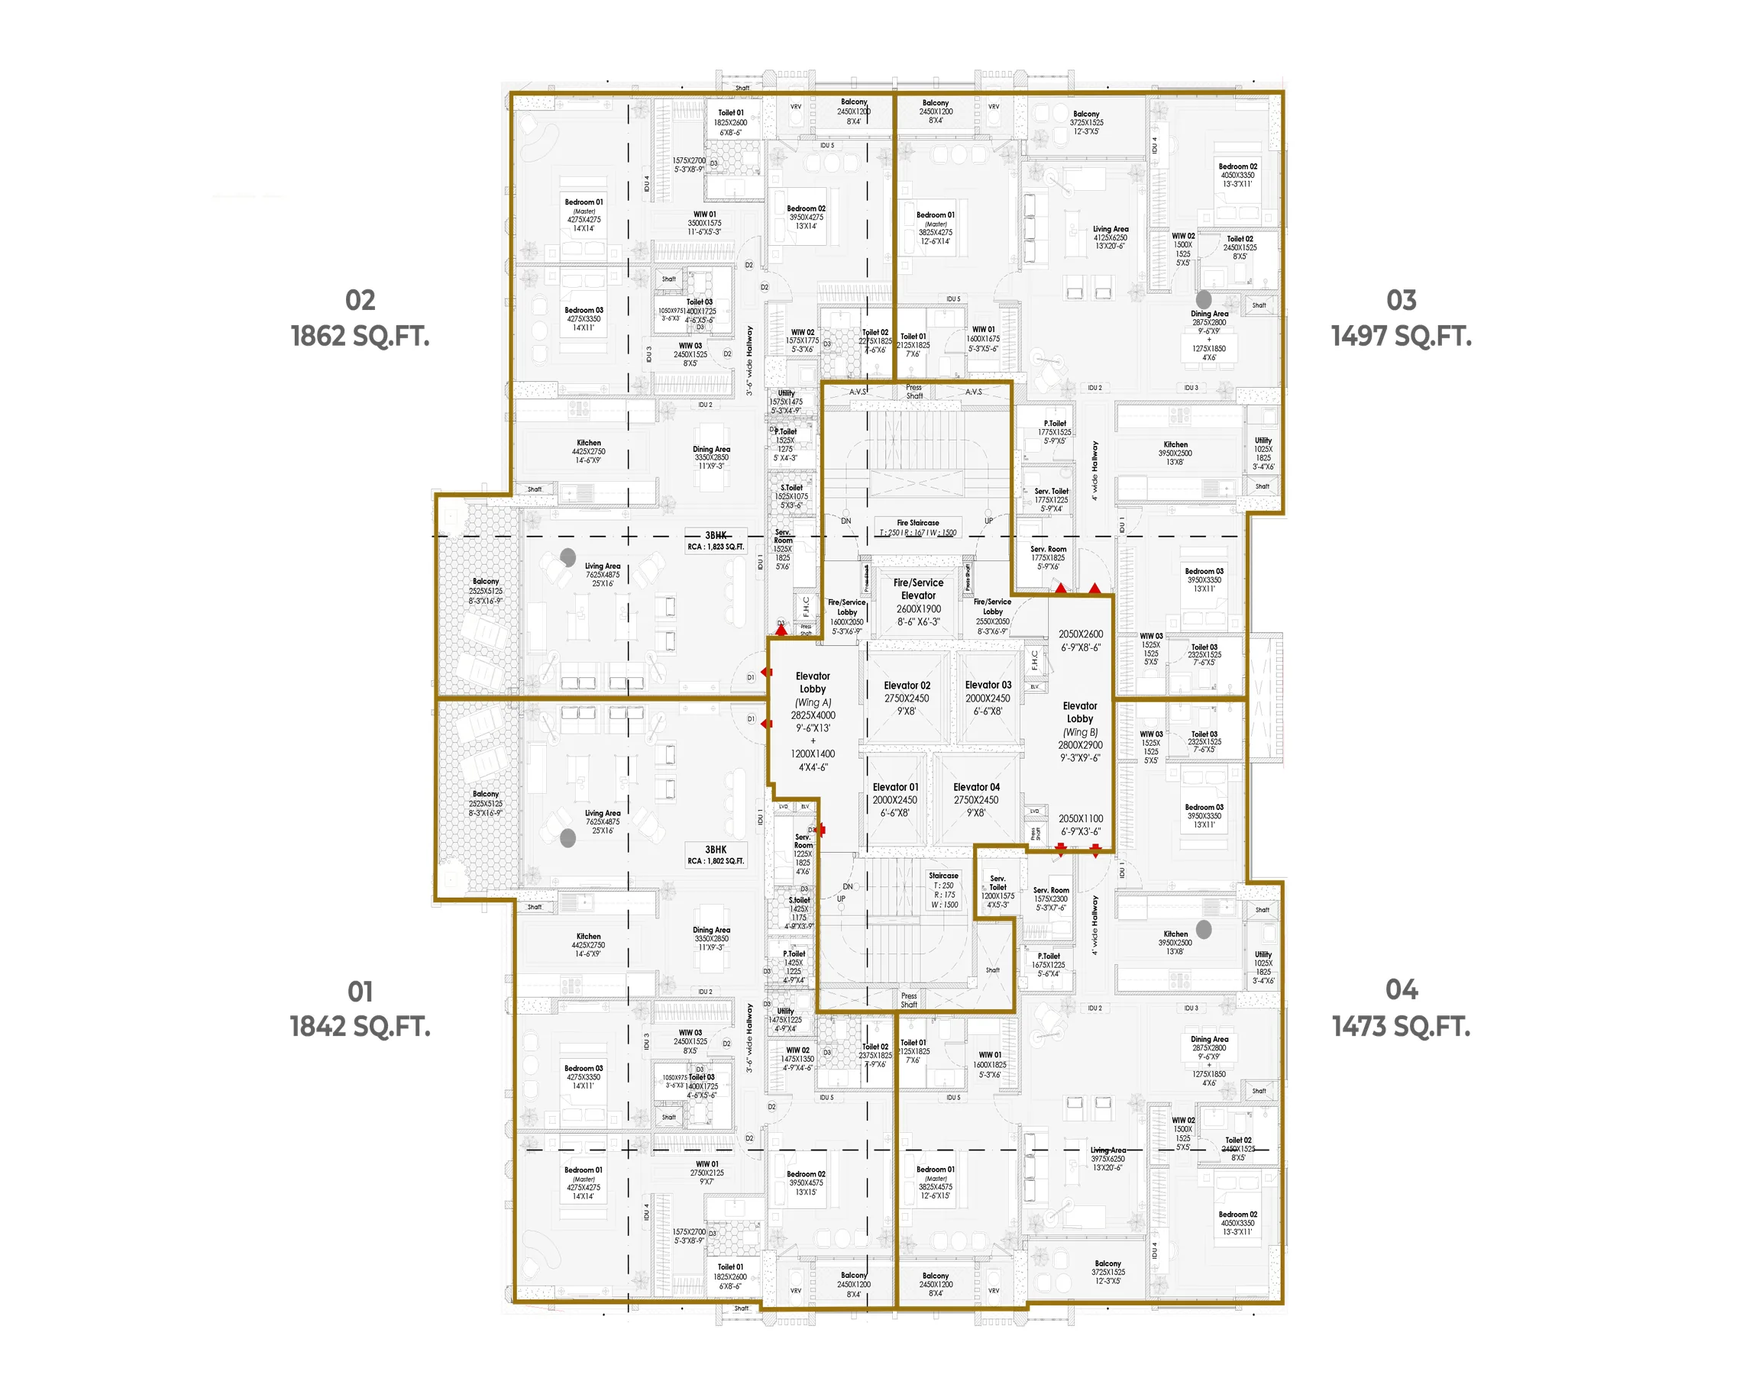
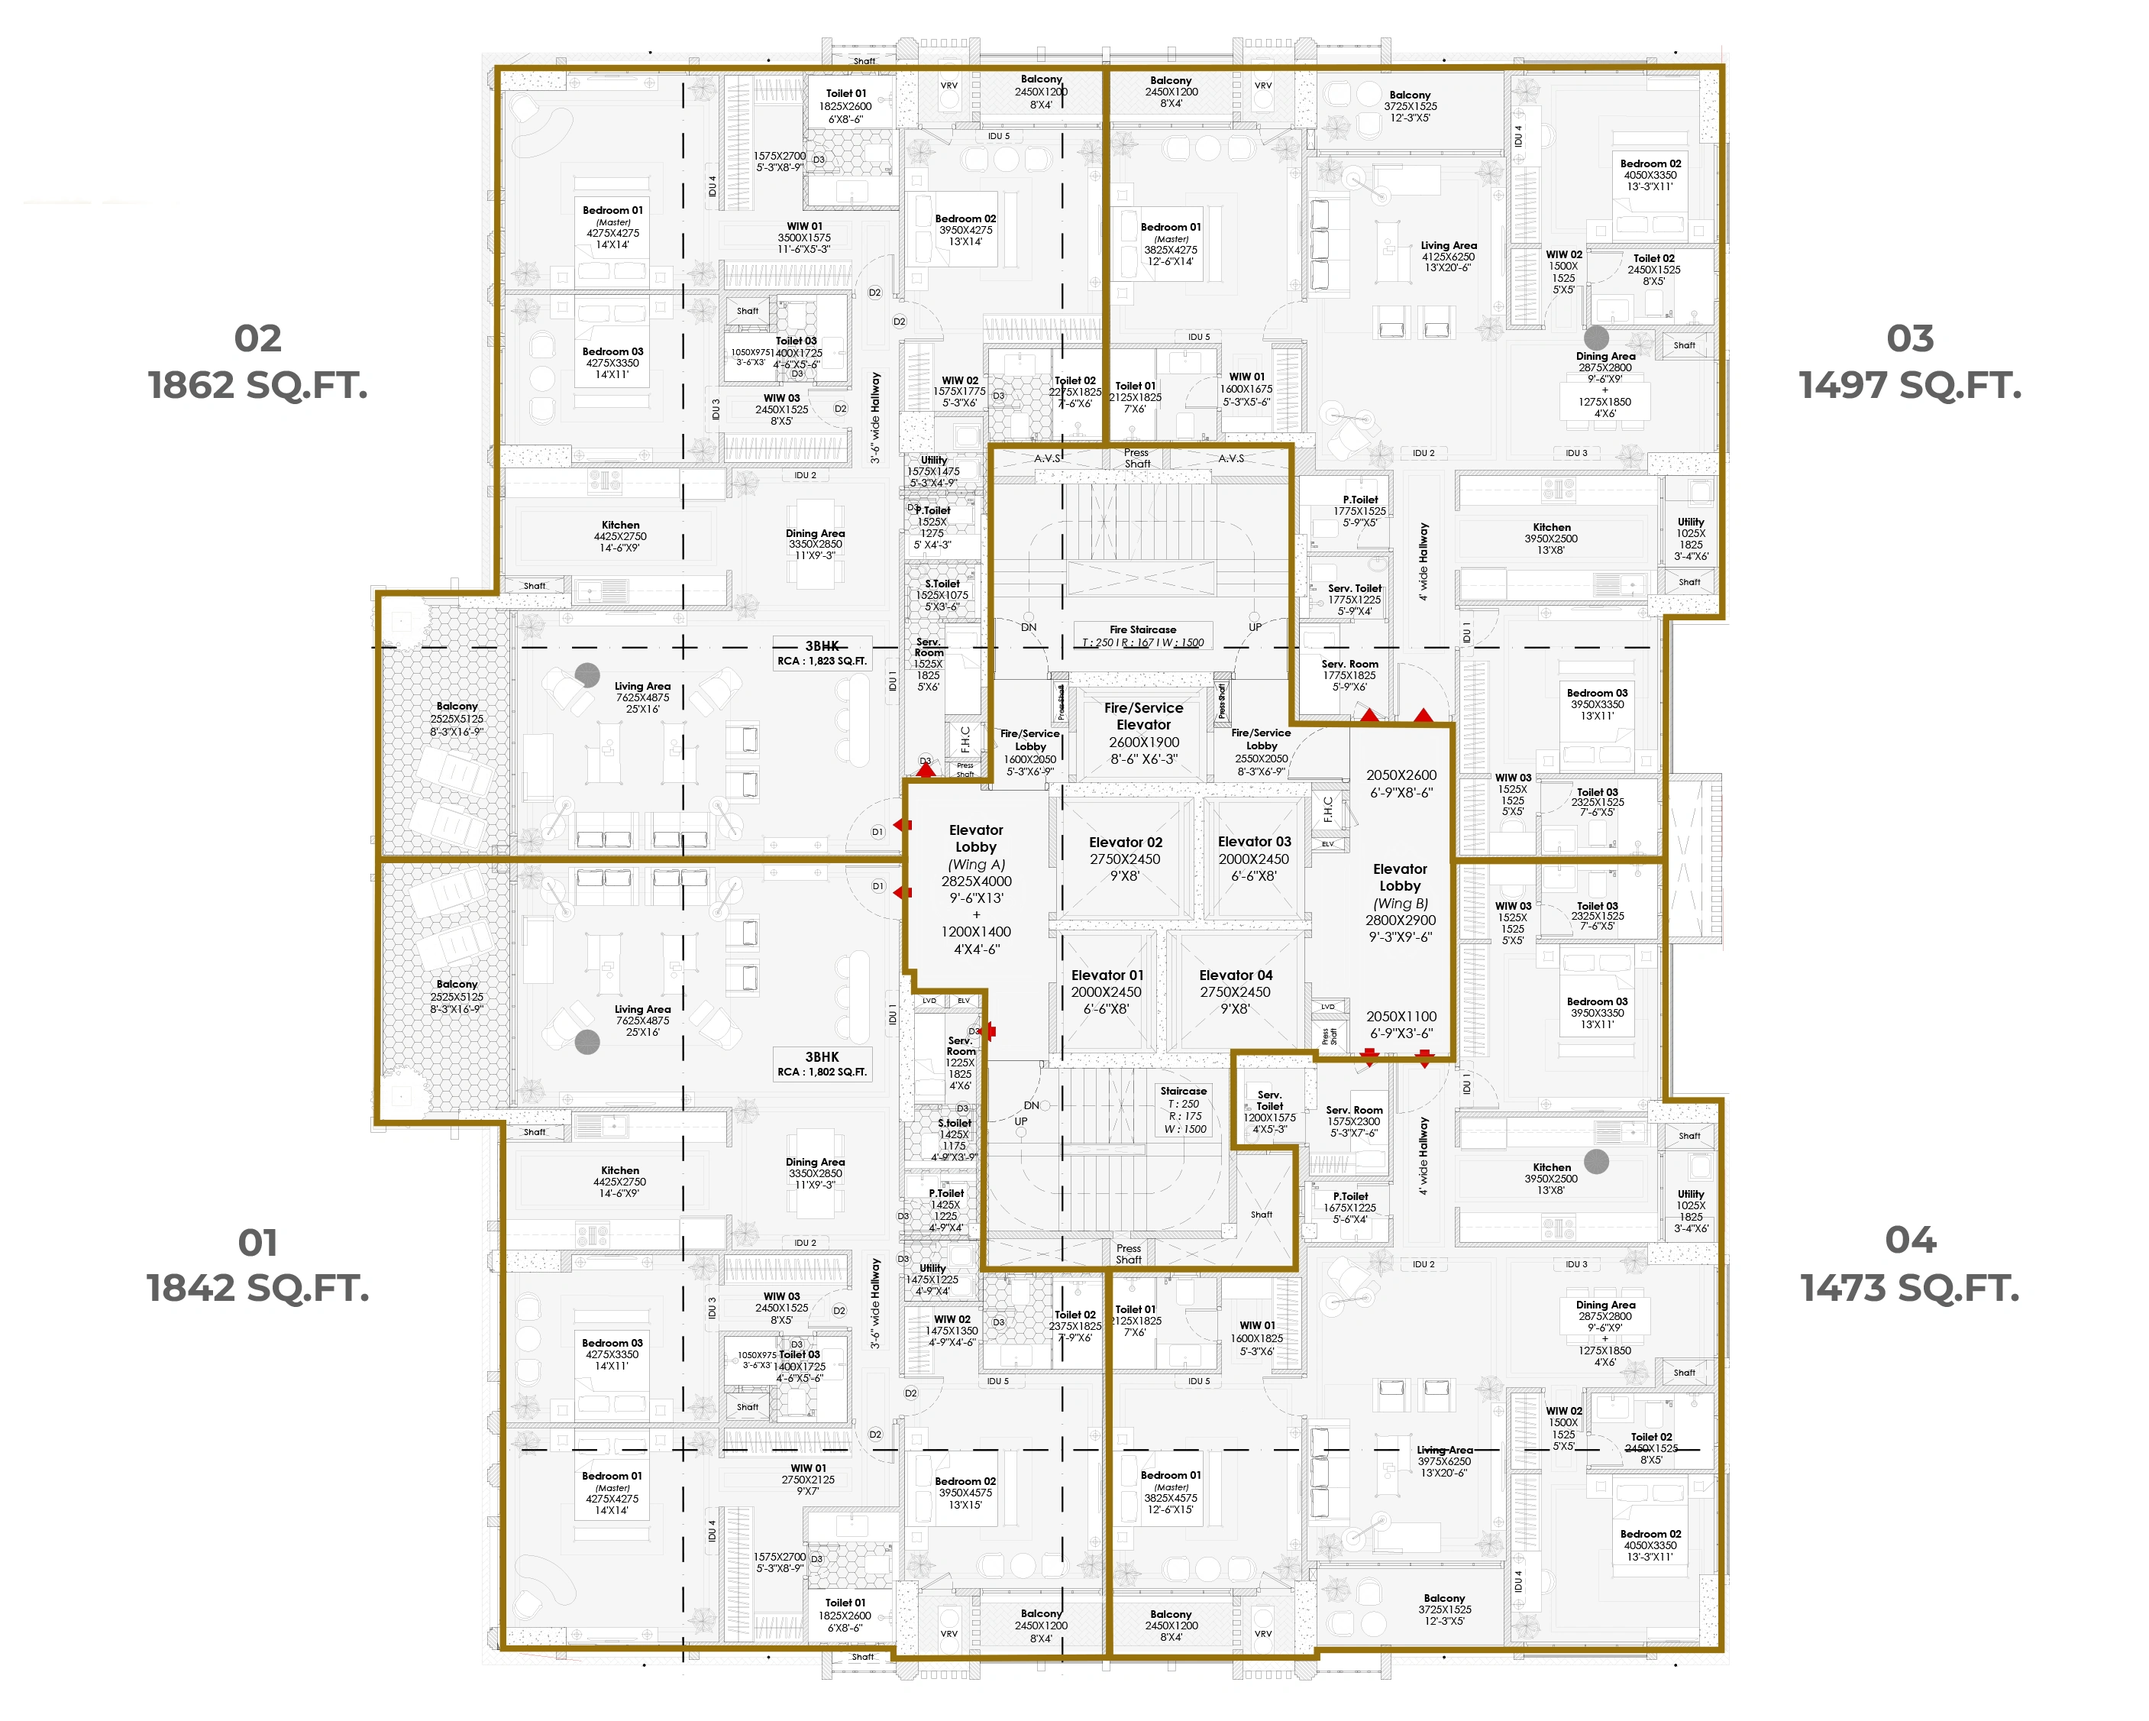
commit

Changed region(s): [[0.0621, 0.0311, 0.9318, 0.9656], [0.3416, 0.5607, 0.3727, 0.5918]]

diff --git a/src/components/ZoomPan.tsx b/src/components/ZoomPan.tsx
@@ -1,5 +1,6 @@
 'use client';
 import { useCallback, useEffect, useRef, useState } from 'react';
+import { canFullscreen, isIOS } from '@/lib/device';
 
 const MIN = 1;
 const MAX = 5;
@@ -8,6 +9,9 @@ type T = { s: number; x: number; y: number };
 // Pinch / wheel / double-tap / drag zoom for one child. Children get `--z` (current scale) so overlays can counter-scale.
 export default function ZoomPan({ children, label = 'Zoom' }: { children: React.ReactNode; label?: string }) {
   const box = useRef<HTMLDivElement>(null);
+  const root = useRef<HTMLDivElement>(null);
+  const [fs, setFs] = useState(false);
+  const [canFs, setCanFs] = useState(false);
   const [t, setT] = useState<T>({ s: 1, x: 0, y: 0 });
   const pts = useRef(new Map<number, { x: number; y: number }>());
   const last = useRef<{ d: number; cx: number; cy: number } | null>(null);
@@ -35,6 +39,13 @@ export default function ZoomPan({ children, label = 'Zoom' }: { children: React.
     const r = box.current!.getBoundingClientRect();
     return { x: e.clientX - r.left - r.width / 2, y: e.clientY - r.top - r.height / 2 };
   };
+
+  useEffect(() => {
+    setCanFs(canFullscreen(document, isIOS(navigator.userAgent, navigator.maxTouchPoints)));
+    const sync = () => { setFs(document.fullscreenElement === root.current); setT({ s: 1, x: 0, y: 0 }); }; // box size changes, so start fresh
+    document.addEventListener('fullscreenchange', sync);
+    return () => document.removeEventListener('fullscreenchange', sync);
+  }, []);
 
   useEffect(() => {
     const el = box.current;
@@ -81,11 +92,16 @@ export default function ZoomPan({ children, label = 'Zoom' }: { children: React.
   const up = (e: React.PointerEvent) => { pts.current.delete(e.pointerId); last.current = null; };
 
   return (
-    <div className="zoom" role="group" aria-label={label}>
+    <div ref={root} className="zoom" role="group" aria-label={label}>
       <div ref={box} className={t.s > 1 ? 'zoom-box zoomed' : 'zoom-box'} onPointerDown={down} onPointerMove={move} onPointerUp={up} onPointerCancel={up}
         onDoubleClick={(e) => { if (t.s > 1) setT({ s: 1, x: 0, y: 0 }); else { const p = rel(e); zoomAt(2.5, p.x, p.y); } }}>
         <div className="zoom-layer" style={{ transform: `translate(${t.x}px, ${t.y}px) scale(${t.s})`, ['--z' as string]: t.s }}>{children}</div>
       </div>
+      {fs && (
+        <button type="button" className="ctl zoom-close" aria-label="Exit fullscreen" onClick={() => void document.exitFullscreen()}>
+          <svg width="16" height="16" viewBox="0 0 24 24" fill="none" stroke="currentColor" strokeWidth="1.6" strokeLinecap="round"><path d="M6 6l12 12M18 6L6 18" /></svg>
+        </button>
+      )}
       <div className="zoom-ctl" role="group" aria-label="Zoom controls">
         <button type="button" className="ctl" aria-label="Zoom in" disabled={t.s >= MAX} onClick={() => zoomAt(1.6)}>
           <svg width="16" height="16" viewBox="0 0 24 24" fill="none" stroke="currentColor" strokeWidth="1.6" strokeLinecap="round"><path d="M12 5v14M5 12h14" /></svg>
@@ -93,9 +109,11 @@ export default function ZoomPan({ children, label = 'Zoom' }: { children: React.
         <button type="button" className="ctl" aria-label="Zoom out" disabled={t.s <= MIN} onClick={() => zoomAt(1 / 1.6)}>
           <svg width="16" height="16" viewBox="0 0 24 24" fill="none" stroke="currentColor" strokeWidth="1.6" strokeLinecap="round"><path d="M5 12h14" /></svg>
         </button>
-        <button type="button" className="ctl" aria-label="Reset zoom" disabled={t.s === 1} onClick={() => setT({ s: 1, x: 0, y: 0 })}>
-          <svg width="16" height="16" viewBox="0 0 24 24" fill="none" stroke="currentColor" strokeWidth="1.6" strokeLinecap="round" strokeLinejoin="round"><path d="M4 9V4h5M20 9V4h-5M4 15v5h5M20 15v5h-5" /></svg>
-        </button>
+        {canFs && !fs && (
+          <button type="button" className="ctl zoom-fs" aria-label="Enter fullscreen" onClick={() => void root.current?.requestFullscreen().catch(() => {})}>
+            <svg width="16" height="16" viewBox="0 0 24 24" fill="none" stroke="currentColor" strokeWidth="1.6" strokeLinecap="round" strokeLinejoin="round"><path d="M4 9V4h5M20 9V4h-5M4 15v5h5M20 15v5h-5" /></svg>
+          </button>
+        )}
       </div>
     </div>
   );

diff --git a/src/components/FloorPlanScene.tsx b/src/components/FloorPlanScene.tsx
@@ -24,8 +24,26 @@ export default function FloorPlanScene() {
 
   const pickTab = (id: string) => { setTabId(id); setPlanIdx(0); setUnit(null); };
 
+  const zoomEl = unit ? (
+    <ZoomPan key={`u-${unit.id}`} label={`${unit.label} plan`}>
+      <img className="fp-img" src={unit.src} alt={`${unit.label} floor plan`} draggable={false} />
+    </ZoomPan>
+  ) : (
+    <ZoomPan key={plan.id} label={`${tab.label} floor plan`}>
+      <img className="fp-img" src={plan.src} alt={`${tab.label} ${plan.label} floor plan`} draggable={false} />
+      {plan.hotspots.map((h) => (
+        <button key={h.id} type="button" className="hotspot" style={{ left: `${h.x}%`, top: `${h.y}%` }}
+          aria-label={h.label} onClick={() => setUnit(h)} onPointerDown={(e) => e.stopPropagation()}>
+          <span className="hotspot-dot" aria-hidden="true" />
+          <span className="hotspot-label">{h.label}</span>
+        </button>
+      ))}
+    </ZoomPan>
+  );
+
   return (
     <SceneFrame
+      hiddenView={<div className="fp-full"><div className="fp-card">{zoomEl}</div></div>}
       bgNode={
         <div className="fp-bg" aria-hidden="true">
           <img className="fp-blur" src={floorPlan.background} alt="" draggable={false} />
@@ -35,29 +53,7 @@ export default function FloorPlanScene() {
         <>
           <SideMenu active="/floor-plan" />
           <div className="fp-stage">
-            {unit ? (
-              <div className="fp-card" key={`u-${unit.id}`}>
-                <ZoomPan label={`${unit.label} plan`}>
-                  <img className="fp-img" src={unit.src} alt={`${unit.label} floor plan`} draggable={false} />
-                </ZoomPan>
-                <button type="button" className="ctl fp-close" aria-label="Close" onClick={() => setUnit(null)}>
-                  <svg width="16" height="16" viewBox="0 0 24 24" fill="none" stroke="currentColor" strokeWidth="1.6" strokeLinecap="round"><path d="M6 6l12 12M18 6L6 18" /></svg>
-                </button>
-              </div>
-            ) : (
-              <div className="fp-card" key={plan.id}>
-                <ZoomPan label={`${tab.label} floor plan`}>
-                  <img className="fp-img" src={plan.src} alt={`${tab.label} ${plan.label} floor plan`} draggable={false} />
-                  {plan.hotspots.map((h) => (
-                    <button key={h.id} type="button" className="hotspot" style={{ left: `${h.x}%`, top: `${h.y}%` }}
-                      aria-label={h.label} onClick={() => setUnit(h)} onPointerDown={(e) => e.stopPropagation()}>
-                      <span className="hotspot-dot" aria-hidden="true" />
-                      <span className="hotspot-label">{h.label}</span>
-                    </button>
-                  ))}
-                </ZoomPan>
-              </div>
-            )}
+            <div className="fp-card" key={unit ? `u-${unit.id}` : plan.id}>{zoomEl}</div>
           </div>
           <div className="dock" role="region" aria-label="Floor plan controls">
             {!unit && tab.plans.length > 1 && (

diff --git a/src/app/globals.css b/src/app/globals.css
@@ -271,11 +271,27 @@ h1 { font-family: var(--font-serif); font-weight: 400; color: var(--gold); font-
 .zoom-box.zoomed:active { cursor: grabbing; }
 .zoom-layer { position: absolute; inset: 0; transform-origin: 50% 50%; will-change: transform; }
 .fp-img { position: absolute; inset: 0; width: 100%; height: 100%; object-fit: fill; pointer-events: none; }
-.zoom-ctl { position: absolute; z-index: 3; right: -3.25rem; bottom: 0; display: flex; flex-direction: column; gap: 0.625rem; }
+.zoom-ctl { position: absolute; z-index: 3; right: 1rem; bottom: 1rem; display: flex; flex-direction: column; gap: 0.25rem; }
 .zoom-ctl .ctl:disabled { opacity: 0.4; cursor: default; }
-.fp-close { position: absolute; z-index: 3; top: 0.875rem; right: 0.875rem; }
 .fp-tabs { width: auto; gap: 7px; }
-.fp-tabs .chip-floor { width: 5.5rem; }
+.fp-tabs .chip-floor { width: auto; min-width: 5.5rem; padding-inline: 1rem; white-space: nowrap; }
+/* plan controls: bare icons on the white plan, no filled boxes */
+.fp-card .ctl { background: none; border: 0; box-shadow: none; backdrop-filter: none; -webkit-backdrop-filter: none; color: #1a1a1a; }
+.fp-card .ctl:hover, .fp-card .ctl:focus-visible { background: none; color: var(--gold); }
+.fp-card .ctl svg { width: 1.25rem; height: 1.25rem; }
+.zoom-close { position: absolute; z-index: 3; bottom: 1rem; left: 50%; translate: -50% 0; }
+/* fullscreen: plan keeps its ratio, centred on the device screen */
+.zoom:fullscreen { background: #fff; }
+.zoom:fullscreen .zoom-box { border-radius: 0; box-shadow: none; }
+.zoom:fullscreen .zoom-layer { inset: auto; left: 50%; top: 50%; translate: -50% -50%; width: min(100vw, calc(100vh * 1143 / 915)); aspect-ratio: 1143 / 915; }
+/* image fullscreen: plan keeps its ratio, centred on the device screen, close sits bottom-centre */
+.zoom-close { position: absolute; z-index: 3; bottom: 1rem; left: 50%; translate: -50% 0; }
+.zoom:fullscreen { background: #fff; }
+.zoom:fullscreen .zoom-box { border-radius: 0; box-shadow: none; }
+.zoom:fullscreen .zoom-layer { inset: auto; left: 50%; top: 50%; translate: -50% -50%; width: min(100vw, calc(100vh * 1143 / 915)); aspect-ratio: 1143 / 915; }
+/* interface hidden: the same plan card, centred on the screen */
+.fp-full .zoom-fs { display: none; } /* eye view has no fullscreen of its own */
+.fp-full { position: fixed; inset: 0; z-index: 15; display: grid; place-items: center; pointer-events: none; }
 
 .hotspot { position: absolute; z-index: 2; width: 1.625rem; height: 1.625rem; margin: -0.8125rem 0 0 -0.8125rem; padding: 0; border: 0; background: none; cursor: pointer; scale: calc(1 / var(--z, 1)); transform-origin: 50% 50%; }
 .hotspot-dot { position: absolute; inset: 0; border-radius: 50%; border: 1px solid #fff; background: radial-gradient(circle, var(--gold-accent), var(--gold)); box-shadow: 0 0.25rem 0.25rem rgba(0, 0, 0, 0.25); transition: transform 0.2s ease; }

diff --git a/src/components/SceneFrame.tsx b/src/components/SceneFrame.tsx
@@ -18,9 +18,10 @@ interface Props {
   showHome?: boolean;
   shade?: boolean | 'left';
   bgPosition?: string;
+  hiddenView?: React.ReactNode; // stays visible while the interface is hidden
 }
 
-export default function SceneFrame({ background, bgNode, filter, panel, children, onBackgroundDrag, bgPosition, showHome = true, shade = false }: Props) {
+export default function SceneFrame({ background, bgNode, filter, panel, children, onBackgroundDrag, bgPosition, hiddenView, showHome = true, shade = false }: Props) {
   const [uiHidden, setUiHidden] = useState(false);
   const [fs, setFs] = useState(false);
   const [showFs, setShowFs] = useState(false);
@@ -79,6 +80,7 @@ export default function SceneFrame({ background, bgNode, filter, panel, children
         {children}
         <Watermark />
       </div>
+      {uiHidden && hiddenView}
       <ControlBar showHome={showHome} showFullscreen={showFs} isFullscreen={fs} onToggleFullscreen={toggleFs}
         uiHidden={uiHidden} onToggleUI={() => setUiHidden((v) => !v)} />
       <RotateOverlay visible={needsRotate} />

diff --git a/tests/floorplan.test.tsx b/tests/floorplan.test.tsx
@@ -18,11 +18,11 @@ describe('floor plans', () => {
     expect(screen.queryByRole('button', { name: 'Type 1' })).toBeNull();
     expect(screen.queryAllByRole('button', { name: /^Unit/ })).toHaveLength(0);
   });
-  it('hotspot opens the unit plan; close returns to the typical plan', () => {
+  it('hotspot opens the unit plan; Escape returns to the typical plan', () => {
     render(<FloorPlanScene />);
     fireEvent.click(screen.getByRole('button', { name: /Unit 02 · 1862/ }));
     expect(screen.getByAltText(/Unit 02 · 1862 sq.ft. floor plan/)).toBeTruthy();
-    fireEvent.click(screen.getByRole('button', { name: 'Close' }));
+    fireEvent.keyDown(window, { key: 'Escape' });
     expect(screen.getAllByRole('button', { name: /^Unit 0\d/ })).toHaveLength(4);
   });
 });

diff --git a/tests/stage2.test.tsx b/tests/stage2.test.tsx
@@ -41,9 +41,9 @@ describe('ControlBar', () => {
     fireEvent.click(screen.getByRole('button', { name: /hide interface/i }));
     expect(fn).toHaveBeenCalledTimes(1);
   });
-  it('home jumps back to the Experience Now homescreen', () => {
+  it('home jumps to the 3D elevation screen', () => {
     render(<ControlBar showFullscreen uiHidden={false} onToggleUI={() => {}} />);
-    expect(screen.getByRole('link', { name: /home/i }).getAttribute('href')).toBe('/');
+    expect(screen.getByRole('link', { name: /home/i }).getAttribute('href')).toBe('/elevation');
   });
   it('can hide home (elevation screen has none in Figma)', () => {
     render(<ControlBar showHome={false} showFullscreen uiHidden={false} onToggleUI={() => {}} />);

diff --git a/src/components/ControlBar.tsx b/src/components/ControlBar.tsx
@@ -19,7 +19,7 @@ export default function ControlBar({ showFullscreen, uiHidden, onToggleUI, showH
   return (
     <nav className="controls" aria-label="Viewer controls" data-hidden={uiHidden}>
       {showHome && (
-        <Link href="/" className="ctl" aria-label="Home" {...gone}>
+        <Link href="/elevation" className="ctl" aria-label="Home" {...gone}>
           <svg {...icon}><path d="M4 11l8-7 8 7M6 10v9h12v-9" /></svg>
         </Link>
       )}
